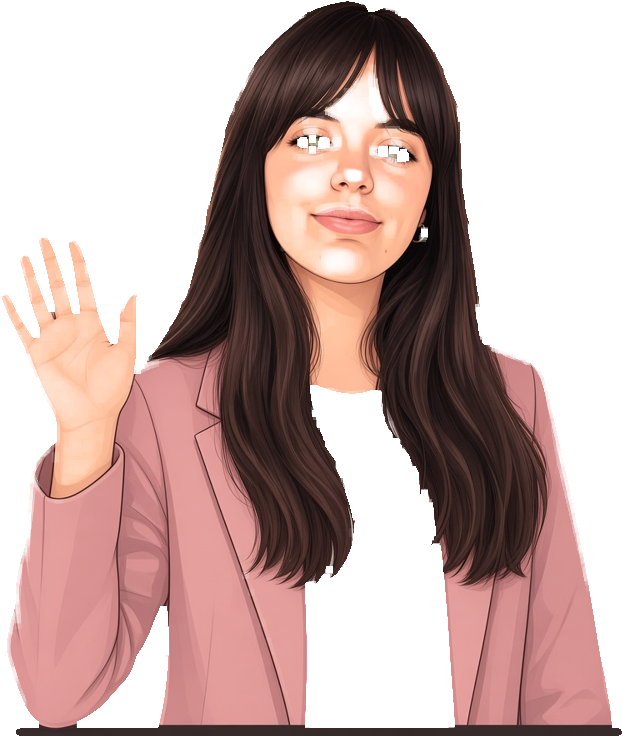
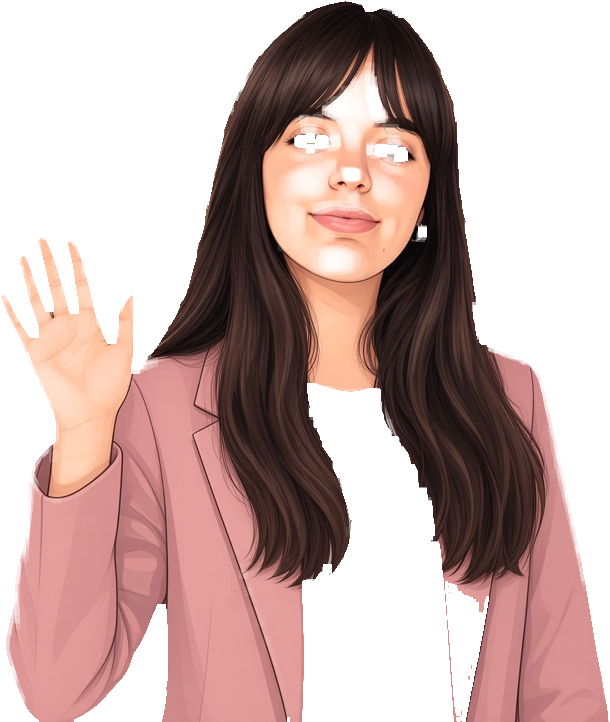
Sit office caricatures on the title divider and add Hernan.

diff --git a/app.py b/app.py
@@ -502,7 +502,9 @@ st.markdown(
         width: 7rem !important;
         min-height: 0 !important;
         overflow: hidden !important;
+        clip-path: inset(0 0 3px 0) !important;
         margin: 0 !important;
+        padding: 0 !important;
         background: transparent !important;
         border: 0 !important;
         box-shadow: none !important;
@@ -512,21 +514,23 @@ st.markdown(
     .stMarkdown img.ec-saludo-avatar,
     [data-testid="stMarkdownContainer"] img.ec-saludo-avatar {
         position: absolute !important;
-        top: 0 !important;
         left: 50% !important;
+        bottom: 0 !important;
+        top: auto !important;
         transform: translateX(-50%) !important;
         width: auto !important;
         height: 100% !important;
         max-width: 7rem !important;
         max-height: 100% !important;
         object-fit: contain !important;
-        object-position: top center !important;
+        object-position: bottom center !important;
         display: block !important;
         border-radius: 0 !important;
         background: transparent !important;
         box-shadow: none !important;
         border: 0 !important;
         outline: none !important;
+        filter: none !important;
     }
     .ec-pagehead-hola,
     .stMarkdown p.ec-pagehead-hola {
